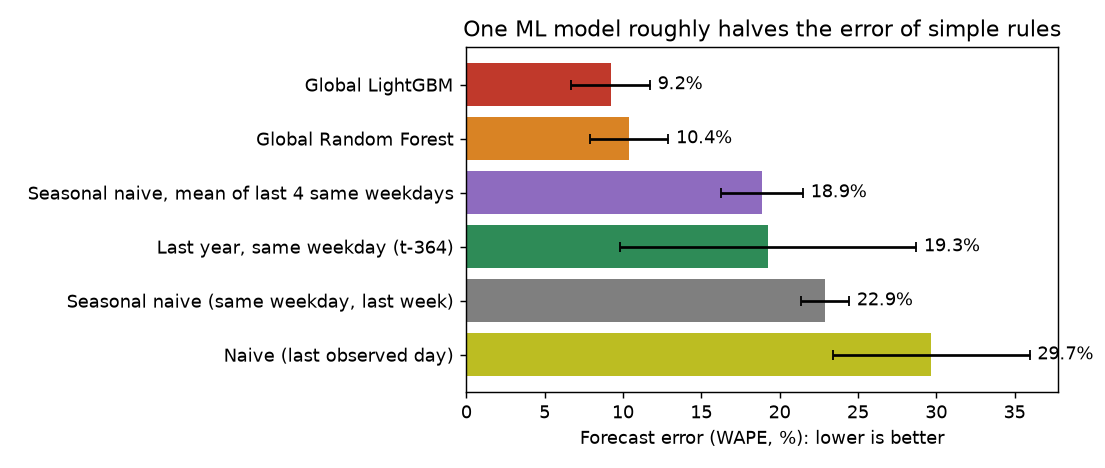
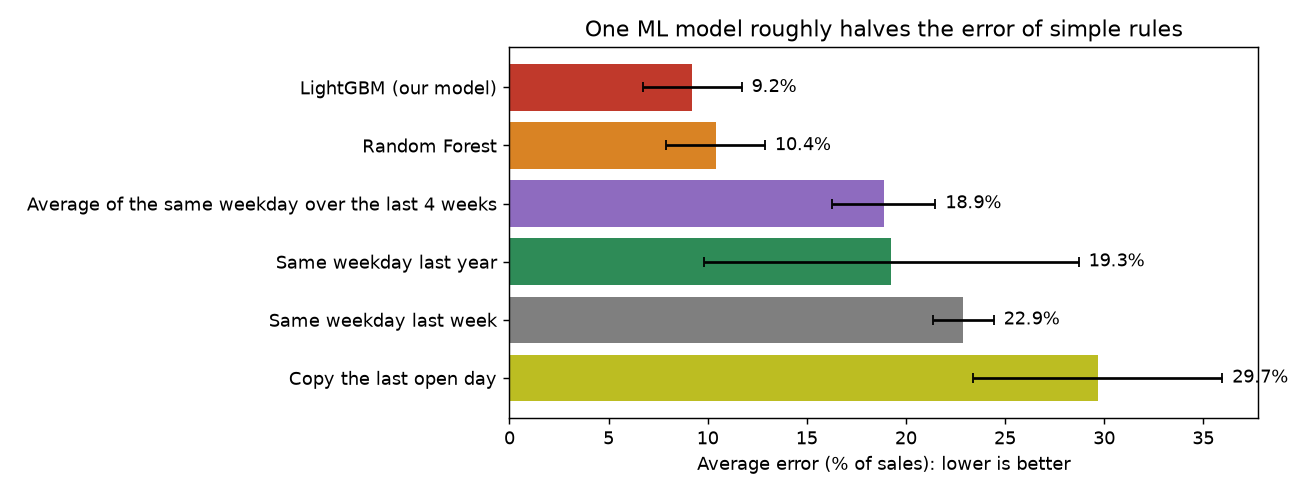
Rewrite the README results section in plain English
The generator (report.py) now writes a three-sentence plain summary, a single 'Average error (%
of sales)' column with plain method names, one explanation of the +/- spread, and a plain
description of the 90% prediction range. RMSE, MAE and RMSPE stay in docs/RESULTS.md with a
one-line explanation. No numbers changed; all text is regenerated by 'rossmann report'.

Changed region(s): [[0.0, 0.0299, 1.0, 0.9573]]

diff --git a/src/rossmann_forecast/report.py b/src/rossmann_forecast/report.py
@@ -14,14 +14,20 @@ import pandas as pd
 from .data import Panel
 
 NAMES = {
-    "naive_last": "Naive (last observed day)",
-    "snaive": "Seasonal naive (same weekday, last week)",
-    "snaive_mean4": "Seasonal naive, mean of last 4 same weekdays",
-    "last_year": "Last year, same weekday (t-364)",
-    "random_forest": "Global Random Forest",
-    "lightgbm": "Global LightGBM",
-    "prophet_plain": "Prophet per store (no regressors)",
-    "prophet_promo": "Prophet per store (+ promo, holidays)",
+    "naive_last": "Copy the last open day",
+    "snaive": "Same weekday last week",
+    "snaive_mean4": "Average of the same weekday over the last 4 weeks",
+    "last_year": "Same weekday last year",
+    "random_forest": "Random Forest",
+    "lightgbm": "LightGBM (our model)",
+    "prophet_plain": "Prophet, one model per store",
+    "prophet_promo": "Prophet per store, also told promos and holidays",
+}
+RULE_PHRASE = {
+    "naive_last": "copying the last open day",
+    "snaive": "repeating the same weekday from last week",
+    "snaive_mean4": "the average of the same weekday over the last four weeks",
+    "last_year": "the same weekday one year earlier",
 }
 README_START = "<!-- RESULTS:START -->"
 README_END = "<!-- RESULTS:END -->"
@@ -50,38 +56,26 @@ def _main_table(models: dict, order: list[str]) -> str:
         e = models[name]
         label = f"**{NAMES[name]}**" if name == "lightgbm" else NAMES[name]
         rows.append([label, _pm(e, "wape", True), _pm(e, "rmse"), _pm(e, "mae"), _pm(e, "rmspe")])
-    return _table(["Model", "WAPE", "RMSE", "MAE", "RMSPE"], rows)
+    return _table(["Model", "Average error (WAPE, % of sales)", "RMSE", "MAE", "RMSPE"], rows)
 
 
 def plain_english(summary: dict) -> str:
     models = summary["all_stores"]
-    lgb, best_base = (
-        models["lightgbm"],
-        min(
-            (
-                models[m]
-                for m in ("naive_last", "snaive", "snaive_mean4", "last_year")
-                if m in models
-            ),
-            key=lambda e: e["mean"]["wape"],
-        ),
-    )
-    best_name = next(n for n, e in models.items() if e is best_base)
-    mean_sales = np.mean([f["mean_daily_sales"] for f in summary["folds"]])
-    mae = lgb["mean"]["mae"]
+    lgb = models["lightgbm"]
+    rules = [m for m in RULE_PHRASE if m in models]
+    best_name = min(rules, key=lambda m: models[m]["mean"]["wape"])
+    best = models[best_name]
+    weeks = summary["meta"]["horizon_days"] // 7
     n_folds = len(summary["folds"])
-    h = summary["meta"]["horizon_days"]
-    gain = (1 - lgb["mean"]["wape"] / best_base["mean"]["wape"]) * 100
-    iv = summary["intervals"]["90"]
+    gain = (1 - lgb["mean"]["wape"] / best["mean"]["wape"]) * 100
     return (
-        f"For every open store, forecast daily sales {h} days ahead. "
-        f"Across {n_folds} rolling-origin test windows covering {summary['meta']['n_stores']:,} stores, "
-        f"a store's typical day has about {mean_sales:,.0f} in sales, and the global LightGBM forecast "
-        f"is off by about {mae:,.0f} per store per day on average ({lgb['mean']['wape'] * 100:.1f}% "
-        f"of sales, WAPE). The strongest naive baseline ({NAMES[best_name].lower()}) is off by "
-        f"{best_base['mean']['wape'] * 100:.1f}%, so the model cuts the error by {gain:.0f}% relative to it. "
-        f"The 90% prediction intervals contained the actual sales {iv['overall_coverage'] * 100:.1f}% "
-        f"of the time overall."
+        f"This project predicts how much each Rossmann store will sell on each day for the next "
+        f"{weeks} weeks, so managers can plan staff and stock. "
+        f"It was tested on {n_folds} separate {weeks}-week periods that the model had never seen: "
+        f"for each period it learned only from sales before it began. "
+        f"On a typical store-day the forecast is off by {lgb['mean']['wape'] * 100:.1f}% of sales, "
+        f"compared with {best['mean']['wape'] * 100:.1f}% for the best simple rule "
+        f"({RULE_PHRASE[best_name]}), a {gain:.0f}% reduction in error."
     )
 
 
@@ -138,8 +132,11 @@ def results_markdown(summary: dict) -> str:
 
     out.append("## All stores: point forecasts\n")
     out.append(
-        "WAPE = sum of absolute errors / sum of actual sales. RMSE and MAE are in sales units per "
-        "store per day. RMSPE is the Kaggle competition metric.\n"
+        "The headline measure is the average error as a percent of sales (WAPE: total absolute error "
+        "divided by total sales). The other three columns are standard alternatives: MAE is the "
+        "average miss in sales units per store per day; RMSE is similar but punishes big misses "
+        "more; RMSPE is the Kaggle competition measure, a percentage version of RMSE. "
+        "Lower is better for all of them.\n"
     )
     out.append(_main_table(summary["all_stores"], order) + "\n")
     out.append("Per fold (WAPE % / RMSE):\n")
@@ -338,33 +335,58 @@ def results_markdown(summary: dict) -> str:
 
 def readme_block(summary: dict) -> str:
     order = ["naive_last", "snaive_mean4", "last_year", "random_forest", "lightgbm"]
+    models = summary["all_stores"]
     iv = summary["intervals"]["90"]
     sample = summary.get("sample_stores")
+    rows = []
+    for name in order:
+        if name not in models:
+            continue
+        e = models[name]
+        label = f"**{NAMES[name]}**" if name == "lightgbm" else NAMES[name]
+        cell = f"{e['mean']['wape'] * 100:.1f}% (+/- {e['std']['wape'] * 100:.1f})"
+        rows.append([label, f"**{cell}**" if name == "lightgbm" else cell])
+    cover = iv["overall_coverage"] * 100
+    gap = 90 - cover
+    if gap <= 0:
+        verdict = "on target or better"
+    elif gap <= 5:
+        verdict = "a little under the 90% target"
+    else:
+        verdict = "well under the 90% target"
     lines = [
         README_START,
         f"_Generated by code from `reports/results.json` (commit `{summary['meta']['git_commit']}`)._",
         "",
         plain_english(summary),
         "",
-        _main_table(summary["all_stores"], order),
+        _table(["Method", "Average error (% of sales)"], rows),
+        "",
+        "Lower is better. An average error of 9% means the forecasts missed the real sales by about "
+        '9% of sales, adding up all store-days. The number after "+/-" shows how much the result '
+        f"varied between the {len(summary['folds'])} test periods: a small value means the method "
+        "was steady, a large one means it did well in some periods and badly in others.",
         "",
     ]
     if sample:
         n = summary["meta"]["n_prophet_stores"]
         lines += [
-            f"On a {n}-store random sample, per-store Prophet scores WAPE "
-            f"{sample['prophet_plain']['mean']['wape'] * 100:.1f}% (no regressors) and "
-            f"{sample['prophet_promo']['mean']['wape'] * 100:.1f}% (with promo and holiday flags) "
-            f"against {sample['lightgbm']['mean']['wape'] * 100:.1f}% for the global LightGBM on the "
-            "same store-days.",
+            f"Prophet, a popular forecasting tool that fits one model per store, is slow to run for "
+            f"every store, so it was tried on a random sample of {n} stores. On those stores it was "
+            f"off by {sample['prophet_plain']['mean']['wape'] * 100:.1f}% on its own and "
+            f"{sample['prophet_promo']['mean']['wape'] * 100:.1f}% when also given the promotion and "
+            f"holiday calendar, against {sample['lightgbm']['mean']['wape'] * 100:.1f}% for LightGBM "
+            "on the same stores.",
             "",
         ]
+    per_period = ", ".join(f"{p['coverage'] * 100:.1f}%" for p in iv["per_fold"])
     lines += [
-        f"90% intervals: {iv['overall_coverage'] * 100:.1f}% empirical coverage overall "
-        "(per fold: " + ", ".join(f"{p['coverage'] * 100:.1f}%" for p in iv["per_fold"]) + ").",
+        "Each forecast also comes with a 90% prediction range, meant to contain the true sales nine "
+        f"times out of ten. In the tests the range held the true sales {cover:.1f}% of the time, "
+        f"{verdict} ({per_period} in the three test periods).",
         "",
-        "Full tables, error spread across stores, promo estimates and SHAP: "
-        "[docs/RESULTS.md](docs/RESULTS.md).",
+        "Other error measures (RMSE, MAE and RMSPE), error by store, the promotion analysis and "
+        "feature importance are in [docs/RESULTS.md](docs/RESULTS.md).",
         README_END,
     ]
     return "\n".join(lines)
@@ -420,7 +442,7 @@ def _figures(
     order.sort(key=lambda m: -models[m]["mean"]["wape"])
     palette = {"lightgbm": "#c0392b", "random_forest": "#d98324", "last_year": "#2e8b57",
                "snaive_mean4": "#8e6bbf", "snaive": "#7f7f7f", "naive_last": "#bcbd22"}  # fmt: skip
-    fig, ax = plt.subplots(figsize=(8.5, 3.6))
+    fig, ax = plt.subplots(figsize=(10, 3.8))
     vals = [models[m]["mean"]["wape"] * 100 for m in order]
     errs = [models[m]["std"]["wape"] * 100 for m in order]
     ax.barh(
@@ -428,7 +450,7 @@ def _figures(
     )
     for i, v in enumerate(vals):
         ax.text(v + errs[i] + 0.5, i, f"{v:.1f}%", va="center")
-    ax.set_xlabel("Forecast error (WAPE, %): lower is better")
+    ax.set_xlabel("Average error (% of sales): lower is better")
     ax.set_title("One ML model roughly halves the error of simple rules")
     fig.tight_layout()
     fig.savefig(fig_dir / "model_comparison.png", dpi=130)

diff --git a/docs/RESULTS.md b/docs/RESULTS.md
@@ -6,7 +6,7 @@ Run: commit `d2a30a4`, Python 3.13.5, pandas 3.0.6, LightGBM 4.7.0, seed 42. Tot
 
 ## In plain English
 
-For every open store, forecast daily sales 42 days ahead. Across 3 rolling-origin test windows covering 1,115 stores, a store's typical day has about 7,335 in sales, and the global LightGBM forecast is off by about 689 per store per day on average (9.2% of sales, WAPE). The strongest naive baseline (seasonal naive, mean of last 4 same weekdays) is off by 18.9%, so the model cuts the error by 51% relative to it. The 90% prediction intervals contained the actual sales 86.4% of the time overall.
+This project predicts how much each Rossmann store will sell on each day for the next 6 weeks, so managers can plan staff and stock. It was tested on 3 separate 6-week periods that the model had never seen: for each period it learned only from sales before it began. On a typical store-day the forecast is off by 9.2% of sales, compared with 18.9% for the best simple rule (the average of the same weekday over the last four weeks), a 51% reduction in error.
 
 ## Evaluation design
 
@@ -23,42 +23,42 @@ For every open store, forecast daily sales 42 days ahead. Across 3 rolling-origi
 
 ## All stores: point forecasts
 
-WAPE = sum of absolute errors / sum of actual sales. RMSE and MAE are in sales units per store per day. RMSPE is the Kaggle competition metric.
+The headline measure is the average error as a percent of sales (WAPE: total absolute error divided by total sales). The other three columns are standard alternatives: MAE is the average miss in sales units per store per day; RMSE is similar but punishes big misses more; RMSPE is the Kaggle competition measure, a percentage version of RMSE. Lower is better for all of them.
 
-| Model | WAPE | RMSE | MAE | RMSPE |
+| Model | Average error (WAPE, % of sales) | RMSE | MAE | RMSPE |
 |---|---|---|---|---|
-| Naive (last observed day) | 29.7% +/- 6.3 | 2,791 +/- 656 | 2,174 +/- 478 | 0.483 +/- 0.112 |
-| Seasonal naive (same weekday, last week) | 22.9% +/- 1.5 | 2,247 +/- 193 | 1,681 +/- 212 | 0.370 +/- 0.022 |
-| Seasonal naive, mean of last 4 same weekdays | 18.9% +/- 2.6 | 1,868 +/- 462 | 1,400 +/- 350 | 0.264 +/- 0.046 |
-| Last year, same weekday (t-364) | 19.3% +/- 9.5 | 1,986 +/- 701 | 1,392 +/- 605 | 0.285 +/- 0.109 |
-| Global Random Forest | 10.4% +/- 2.5 | 1,178 +/- 426 | 775 +/- 276 | 0.152 +/- 0.038 |
-| **Global LightGBM** | 9.2% +/- 2.5 | 1,020 +/- 327 | 689 +/- 267 | 0.129 +/- 0.031 |
+| Copy the last open day | 29.7% +/- 6.3 | 2,791 +/- 656 | 2,174 +/- 478 | 0.483 +/- 0.112 |
+| Same weekday last week | 22.9% +/- 1.5 | 2,247 +/- 193 | 1,681 +/- 212 | 0.370 +/- 0.022 |
+| Average of the same weekday over the last 4 weeks | 18.9% +/- 2.6 | 1,868 +/- 462 | 1,400 +/- 350 | 0.264 +/- 0.046 |
+| Same weekday last year | 19.3% +/- 9.5 | 1,986 +/- 701 | 1,392 +/- 605 | 0.285 +/- 0.109 |
+| Random Forest | 10.4% +/- 2.5 | 1,178 +/- 426 | 775 +/- 276 | 0.152 +/- 0.038 |
+| **LightGBM (our model)** | 9.2% +/- 2.5 | 1,020 +/- 327 | 689 +/- 267 | 0.129 +/- 0.031 |
 
 Per fold (WAPE % / RMSE):
 
 | Model | Fold 1 (2014-08-01) | Fold 2 (2014-12-01) | Fold 3 (2015-06-20) |
 |---|---|---|---|
-| Naive (last observed day) | 35.8 / 2,990 | 30.0 / 3,325 | 23.3 / 2,059 |
-| Seasonal naive (same weekday, last week) | 24.3 / 2,198 | 23.1 / 2,459 | 21.3 / 2,084 |
-| Seasonal naive, mean of last 4 same weekdays | 16.6 / 1,514 | 21.7 / 2,391 | 18.3 / 1,698 |
-| Last year, same weekday (t-364) | 29.9 / 2,624 | 16.0 / 2,100 | 11.9 / 1,235 |
-| Global Random Forest | 9.0 / 935 | 13.3 / 1,669 | 8.9 / 928 |
-| Global LightGBM | 7.6 / 834 | 12.1 / 1,398 | 7.9 / 828 |
+| Copy the last open day | 35.8 / 2,990 | 30.0 / 3,325 | 23.3 / 2,059 |
+| Same weekday last week | 24.3 / 2,198 | 23.1 / 2,459 | 21.3 / 2,084 |
+| Average of the same weekday over the last 4 weeks | 16.6 / 1,514 | 21.7 / 2,391 | 18.3 / 1,698 |
+| Same weekday last year | 29.9 / 2,624 | 16.0 / 2,100 | 11.9 / 1,235 |
+| Random Forest | 9.0 / 935 | 13.3 / 1,669 | 8.9 / 928 |
+| LightGBM (our model) | 7.6 / 834 | 12.1 / 1,398 | 7.9 / 828 |
 
 ## Per-store Prophet versus the global model (100-store random sample)
 
 Prophet is fitted separately per store and per fold, so it is run on a fixed random sample of 100 stores (seed 42), not all 1,115. All rows below are scored on exactly the same store-days.
 
-| Model | WAPE | RMSE | MAE | RMSPE |
+| Model | Average error (WAPE, % of sales) | RMSE | MAE | RMSPE |
 |---|---|---|---|---|
-| Naive (last observed day) | 29.8% +/- 6.4 | 2,896 +/- 744 | 2,251 +/- 536 | 0.489 +/- 0.103 |
-| Seasonal naive (same weekday, last week) | 23.1% +/- 1.8 | 2,337 +/- 277 | 1,740 +/- 260 | 0.378 +/- 0.025 |
-| Seasonal naive, mean of last 4 same weekdays | 19.3% +/- 3.1 | 1,990 +/- 550 | 1,475 +/- 407 | 0.271 +/- 0.056 |
-| Last year, same weekday (t-364) | 19.5% +/- 8.8 | 2,052 +/- 694 | 1,447 +/- 582 | 0.290 +/- 0.094 |
-| Global Random Forest | 10.8% +/- 3.1 | 1,324 +/- 514 | 832 +/- 336 | 0.167 +/- 0.053 |
-| **Global LightGBM** | 9.4% +/- 2.3 | 1,124 +/- 293 | 724 +/- 267 | 0.139 +/- 0.033 |
-| Prophet per store (no regressors) | 17.9% +/- 1.5 | 1,818 +/- 337 | 1,359 +/- 264 | 0.279 +/- 0.084 |
-| Prophet per store (+ promo, holidays) | 12.5% +/- 1.9 | 1,383 +/- 317 | 949 +/- 253 | 0.205 +/- 0.077 |
+| Copy the last open day | 29.8% +/- 6.4 | 2,896 +/- 744 | 2,251 +/- 536 | 0.489 +/- 0.103 |
+| Same weekday last week | 23.1% +/- 1.8 | 2,337 +/- 277 | 1,740 +/- 260 | 0.378 +/- 0.025 |
+| Average of the same weekday over the last 4 weeks | 19.3% +/- 3.1 | 1,990 +/- 550 | 1,475 +/- 407 | 0.271 +/- 0.056 |
+| Same weekday last year | 19.5% +/- 8.8 | 2,052 +/- 694 | 1,447 +/- 582 | 0.290 +/- 0.094 |
+| Random Forest | 10.8% +/- 3.1 | 1,324 +/- 514 | 832 +/- 336 | 0.167 +/- 0.053 |
+| **LightGBM (our model)** | 9.4% +/- 2.3 | 1,124 +/- 293 | 724 +/- 267 | 0.139 +/- 0.033 |
+| Prophet, one model per store | 17.9% +/- 1.5 | 1,818 +/- 337 | 1,359 +/- 264 | 0.279 +/- 0.084 |
+| Prophet per store, also told promos and holidays | 12.5% +/- 1.9 | 1,383 +/- 317 | 949 +/- 253 | 0.205 +/- 0.077 |
 
 ## How error is spread across stores
 
@@ -66,11 +66,11 @@ Store-level WAPE for each of the 3,164 (store, fold) pairs. A good average can h
 
 | Model | p10 | median | p90 | p99 | max |
 |---|---|---|---|---|---|
-| Global LightGBM | 5.8% | 8.5% | 13.8% | 25.6% | 53.2% |
-| Last year, same weekday (t-364) | 9.5% | 16.0% | 34.5% | 48.3% | 78.9% |
-| Seasonal naive, mean of last 4 same weekdays | 13.6% | 18.7% | 24.6% | 31.3% | 60.1% |
+| LightGBM (our model) | 5.8% | 8.5% | 13.8% | 25.6% | 53.2% |
+| Same weekday last year | 9.5% | 16.0% | 34.5% | 48.3% | 78.9% |
+| Average of the same weekday over the last 4 weeks | 13.6% | 18.7% | 24.6% | 31.3% | 60.1% |
 
-Share of (store, fold) pairs where LightGBM has lower WAPE than: last year, same weekday (t-364) 91%; seasonal naive, mean of last 4 same weekdays 93%.
+Share of (store, fold) pairs where LightGBM has lower WAPE than: same weekday last year 91%; average of the same weekday over the last 4 weeks 93%.
 
 Five worst stores by mean WAPE: store 192 (30% WAPE, mean sales 13,759), store 909 (30% WAPE, mean sales 13,918), store 820 (26% WAPE, mean sales 12,407), store 306 (24% WAPE, mean sales 4,607), store 1056 (23% WAPE, mean sales 4,891).
 

diff --git a/README.md b/README.md
@@ -17,27 +17,30 @@ was actually open, and the model never sees sales from the period it is predicti
 <!-- RESULTS:START -->
 _Generated by code from `reports/results.json` (commit `d2a30a4`)._
 
-For every open store, forecast daily sales 42 days ahead. Across 3 rolling-origin test windows covering 1,115 stores, a store's typical day has about 7,335 in sales, and the global LightGBM forecast is off by about 689 per store per day on average (9.2% of sales, WAPE). The strongest naive baseline (seasonal naive, mean of last 4 same weekdays) is off by 18.9%, so the model cuts the error by 51% relative to it. The 90% prediction intervals contained the actual sales 86.4% of the time overall.
+This project predicts how much each Rossmann store will sell on each day for the next 6 weeks, so managers can plan staff and stock. It was tested on 3 separate 6-week periods that the model had never seen: for each period it learned only from sales before it began. On a typical store-day the forecast is off by 9.2% of sales, compared with 18.9% for the best simple rule (the average of the same weekday over the last four weeks), a 51% reduction in error.
 
-| Model | WAPE | RMSE | MAE | RMSPE |
-|---|---|---|---|---|
-| Naive (last observed day) | 29.7% +/- 6.3 | 2,791 +/- 656 | 2,174 +/- 478 | 0.483 +/- 0.112 |
-| Seasonal naive, mean of last 4 same weekdays | 18.9% +/- 2.6 | 1,868 +/- 462 | 1,400 +/- 350 | 0.264 +/- 0.046 |
-| Last year, same weekday (t-364) | 19.3% +/- 9.5 | 1,986 +/- 701 | 1,392 +/- 605 | 0.285 +/- 0.109 |
-| Global Random Forest | 10.4% +/- 2.5 | 1,178 +/- 426 | 775 +/- 276 | 0.152 +/- 0.038 |
-| **Global LightGBM** | 9.2% +/- 2.5 | 1,020 +/- 327 | 689 +/- 267 | 0.129 +/- 0.031 |
+| Method | Average error (% of sales) |
+|---|---|
+| Copy the last open day | 29.7% (+/- 6.3) |
+| Average of the same weekday over the last 4 weeks | 18.9% (+/- 2.6) |
+| Same weekday last year | 19.3% (+/- 9.5) |
+| Random Forest | 10.4% (+/- 2.5) |
+| **LightGBM (our model)** | **9.2% (+/- 2.5)** |
 
-On a 100-store random sample, per-store Prophet scores WAPE 17.9% (no regressors) and 12.5% (with promo and holiday flags) against 9.4% for the global LightGBM on the same store-days.
+Lower is better. An average error of 9% means the forecasts missed the real sales by about 9% of sales, adding up all store-days. The number after "+/-" shows how much the result varied between the 3 test periods: a small value means the method was steady, a large one means it did well in some periods and badly in others.
 
-90% intervals: 86.4% empirical coverage overall (per fold: 93.6%, 76.7%, 88.0%).
+Prophet, a popular forecasting tool that fits one model per store, is slow to run for every store, so it was tried on a random sample of 100 stores. On those stores it was off by 17.9% on its own and 12.5% when also given the promotion and holiday calendar, against 9.4% for LightGBM on the same stores.
 
-Full tables, error spread across stores, promo estimates and SHAP: [docs/RESULTS.md](docs/RESULTS.md).
+Each forecast also comes with a 90% prediction range, meant to contain the true sales nine times out of ten. In the tests the range held the true sales 86.4% of the time, a little under the 90% target (93.6%, 76.7%, 88.0% in the three test periods).
+
+Other error measures (RMSE, MAE and RMSPE), error by store, the promotion analysis and feature importance are in [docs/RESULTS.md](docs/RESULTS.md).
 <!-- RESULTS:END -->
 
 ### The results in three pictures
 
 **1. A single machine-learning model roughly halves the error of simple rules.** Each bar is the
-average forecast error (WAPE) over three test windows; the whiskers show how much it varies.
+average forecast error as a percent of sales over three test periods; the whiskers show how much
+it varied between the periods.
 
 ![Model comparison](reports/figures/model_comparison.png)
 
